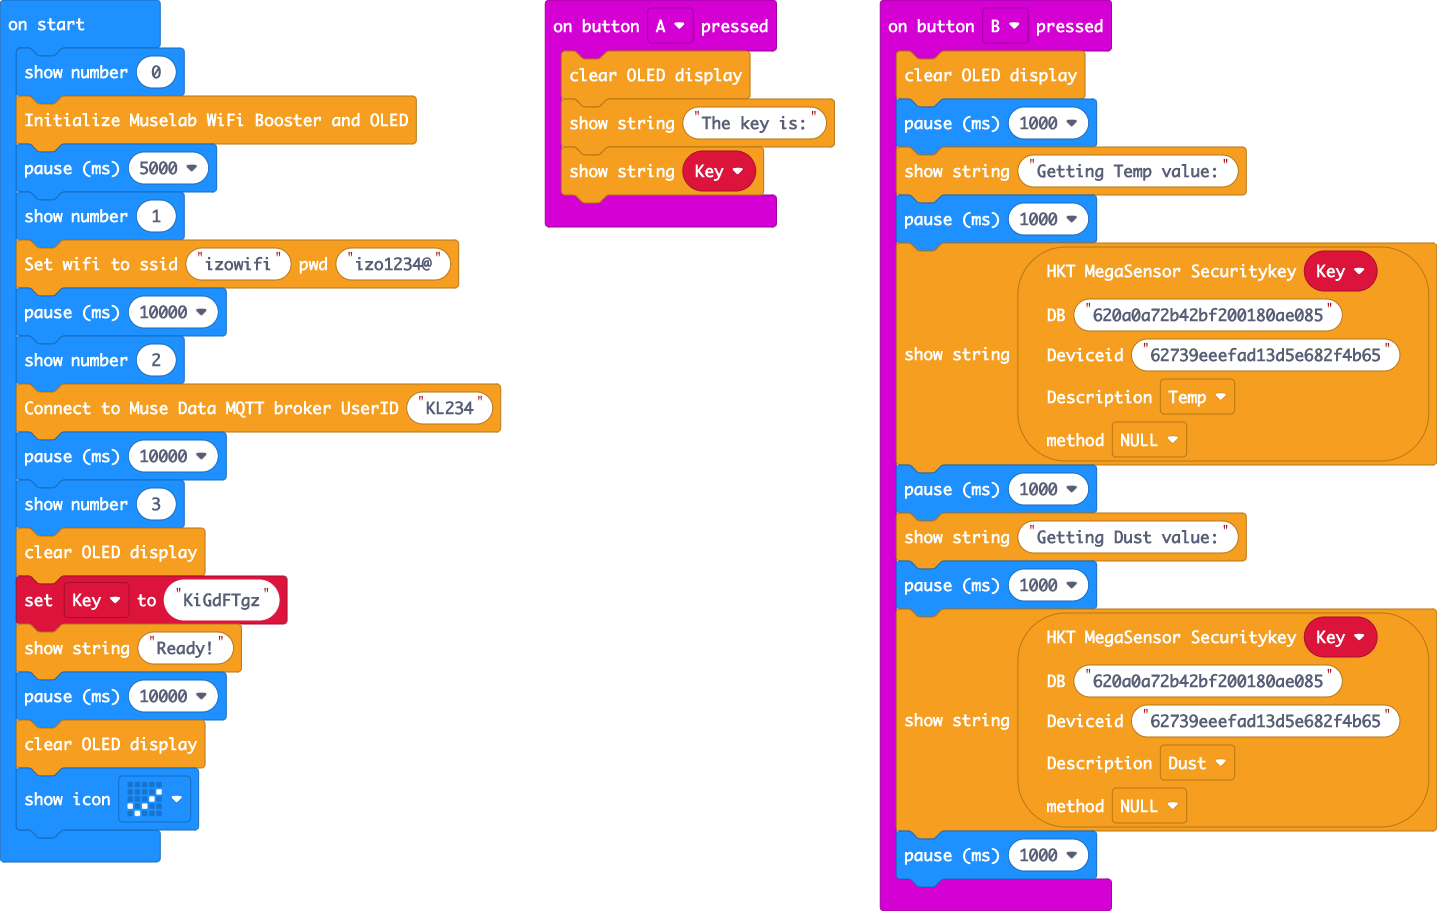
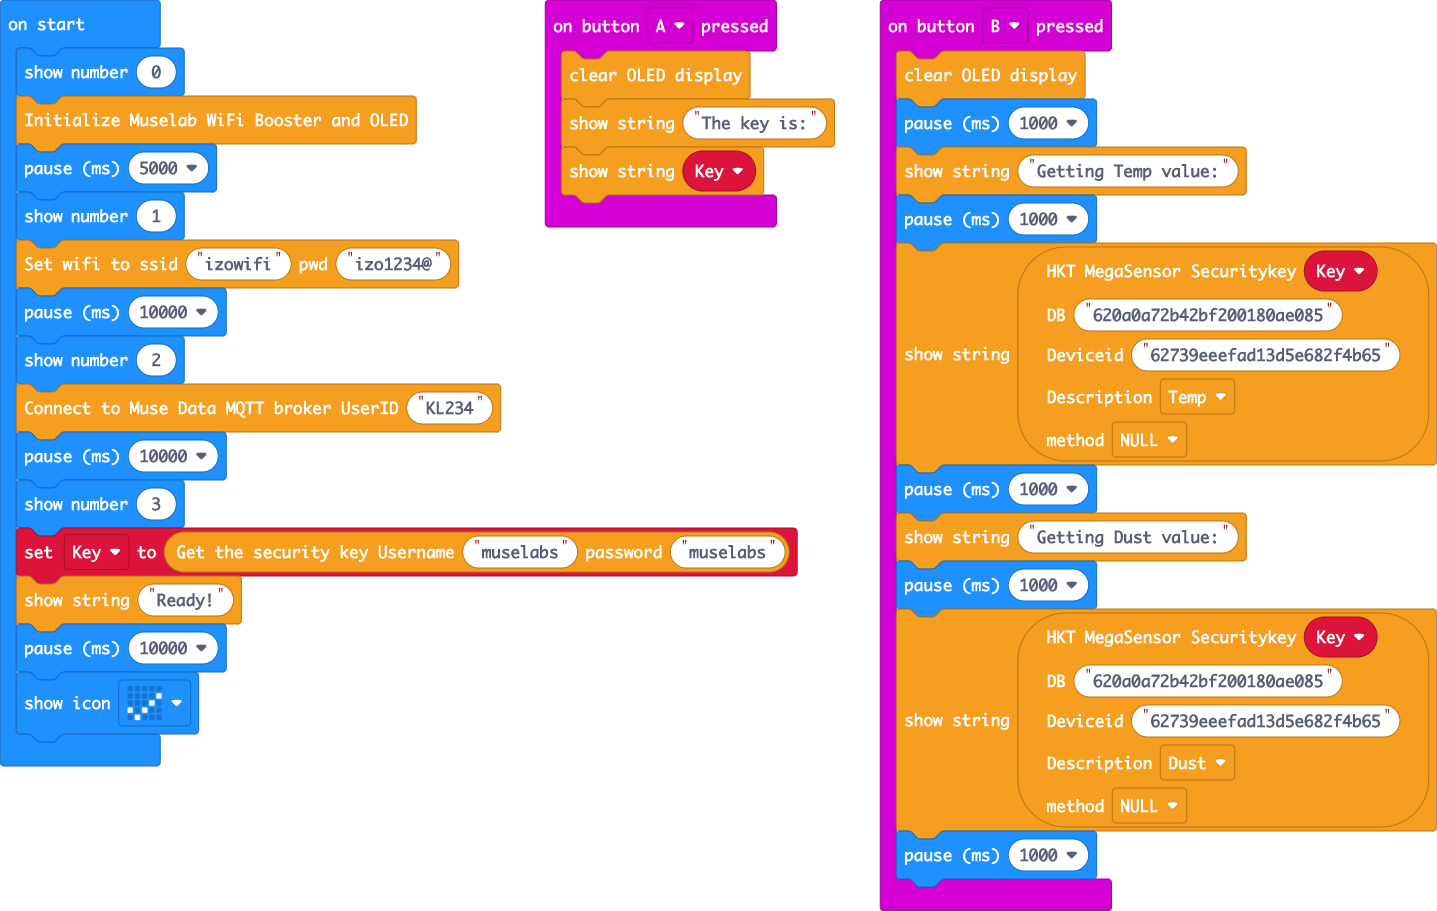
update

Changed region(s): [[0.0, 0.5532, 0.5818, 0.9528]]

diff --git a/main.ts b/main.ts
@@ -38,9 +38,7 @@ basic.showNumber(2)
 MuseIoT.ConnectMuseDataMQTTbroker("KL234")
 basic.pause(10000)
 basic.showNumber(3)
-MuseOLED.clear()
-Key = "KiGdFTgz"
+Key = MuseIoT.GetTheSecurityKey("muselabs", "muselabs")
 MuseOLED.writeStringNewLine("Ready!")
 basic.pause(10000)
-MuseOLED.clear()
 basic.showIcon(IconNames.Yes)
